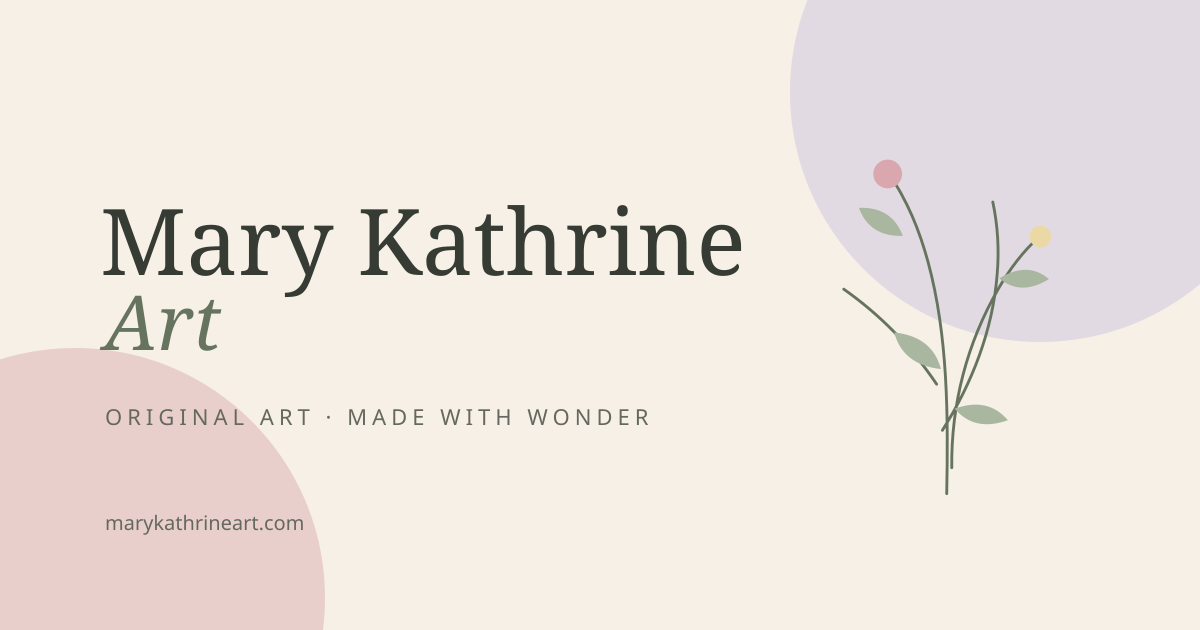
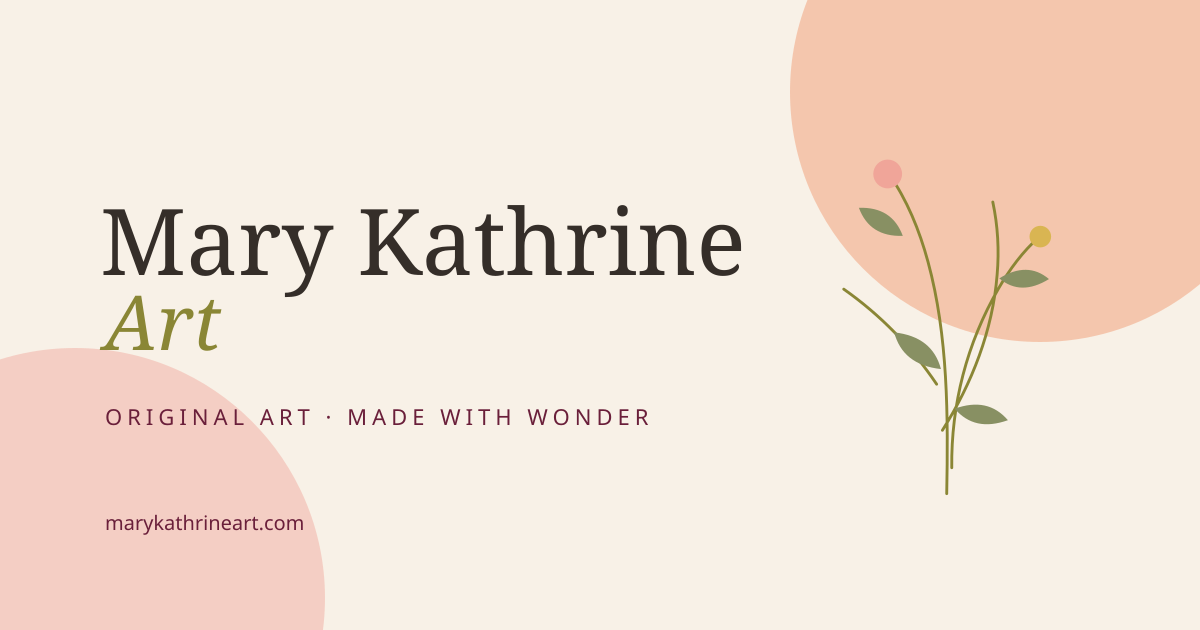
Update artwork and styles for a cohesive aesthetic
- Modified SVG files to enhance color schemes and visual elements across various artworks including 'gathered-light', 'lavender-path', 'meadow-song', 'poppy-studies', 'quiet-bloom', 'wild-at-heart', and 'wildflower-spray'.
- Updated favicon and social preview SVGs to reflect new color palette.
- Adjusted theme color in index.html to match the new design.
- Enhanced CSS variables for improved color management and consistency.
- Updated button styles and hover effects to align with the new color scheme.
- Added Instagram URL to site configuration in script.js.

diff --git a/styles.css b/styles.css
@@ -39,16 +39,24 @@
 }
 
 :root {
-  --ivory: #f6f0e6;
-  --paper: #fffaf2;
-  --sage: #a9b7a0;
-  --sage-dark: #5f6e58;
-  --rose: #d9a7ad;
-  --lavender: #c9bfdd;
-  --butter: #ead9a5;
-  --ink: #363b34;
-  --ink-soft: #65685f;
-  --line: rgba(54, 59, 52, 0.18);
+  --apricot: #f09367;
+  --blush: #f0a599;
+  --copper: #ce5a43;
+  --blood-orange: #ab482d;
+  --olive: #8a8635;
+  --moss: #889063;
+  --sunshine: #d9b552;
+  --burgundy: #6a1f3a;
+  --ivory: #f8f1e7;
+  --paper: #fff9ef;
+  --sage: var(--moss);
+  --sage-dark: var(--burgundy);
+  --rose: var(--blush);
+  --lavender: var(--apricot);
+  --butter: var(--sunshine);
+  --ink: #352e29;
+  --ink-soft: var(--burgundy);
+  --line: rgba(106, 31, 58, 0.2);
   --serif: "Cormorant Garamond", Georgia, serif;
   --sans: "Source Sans 3", "Helvetica Neue", Arial, sans-serif;
   --page-gutter: clamp(1.25rem, 4vw, 4.75rem);
@@ -115,8 +123,9 @@ button {
 }
 
 :focus-visible {
-  outline: 3px solid #78659a;
+  outline: 3px solid var(--paper);
   outline-offset: 4px;
+  box-shadow: 0 0 0 6px var(--burgundy);
 }
 
 .skip-link {
@@ -362,12 +371,12 @@ button {
 }
 
 .button--primary {
-  background: var(--ink);
+  background: var(--burgundy);
   color: var(--paper);
 }
 
 .button--primary:not([aria-disabled="true"]):hover {
-  background: var(--sage-dark);
+  background: var(--blood-orange);
   transform: translateY(-2px);
 }
 
@@ -567,7 +576,7 @@ button {
   overflow: hidden;
   padding-right: 0;
   padding-left: 0;
-  background: #e7e7dd;
+  background: var(--sunshine);
 }
 
 .gallery-section::after {
@@ -577,7 +586,7 @@ button {
   width: 26rem;
   height: 26rem;
   border-radius: 50%;
-  background: rgba(217, 167, 173, 0.26);
+  background: rgba(206, 90, 67, 0.3);
   content: "";
 }
 
@@ -790,7 +799,9 @@ button {
 .shop-callout {
   position: relative;
   overflow: hidden;
-  background: var(--rose);
+  padding-top: clamp(9rem, 14vw, 13rem);
+  padding-bottom: clamp(7rem, 11vw, 10rem);
+  background: var(--blush);
   isolation: isolate;
   text-align: center;
 }
@@ -808,7 +819,7 @@ button {
   left: -6rem;
   width: 24rem;
   height: 24rem;
-  background: rgba(255, 250, 242, 0.25);
+  background: rgba(240, 147, 103, 0.38);
 }
 
 .shop-callout::after {
@@ -816,7 +827,7 @@ button {
   bottom: -13rem;
   width: 30rem;
   height: 30rem;
-  background: rgba(201, 191, 221, 0.48);
+  background: rgba(217, 181, 82, 0.42);
 }
 
 .shop-callout__inner {
@@ -825,7 +836,7 @@ button {
 }
 
 .shop-callout .eyebrow {
-  color: #47463f;
+  color: var(--burgundy);
 }
 
 .shop-callout h2 {
@@ -835,7 +846,7 @@ button {
 .shop-callout__inner > p:not(.eyebrow, .link-status) {
   max-width: 34rem;
   margin: 1.8rem auto 0;
-  color: #47463f;
+  color: var(--burgundy);
   font-size: 1.08rem;
 }
 
@@ -844,7 +855,7 @@ button {
 }
 
 .button--dark {
-  background: var(--ink);
+  background: var(--burgundy);
   color: var(--paper);
 }
 
@@ -853,12 +864,12 @@ button {
 }
 
 .text-link--dark {
-  color: var(--ink);
+  color: var(--burgundy);
 }
 
 .link-status {
   margin: 1.3rem 0 0;
-  color: #47463f;
+  color: var(--burgundy);
   font-size: 0.72rem;
   letter-spacing: 0.08em;
 }
@@ -878,7 +889,7 @@ button {
   align-items: center;
   gap: 2rem;
   padding: 3rem var(--page-gutter);
-  background: var(--ink);
+  background: var(--burgundy);
   color: var(--paper);
 }
 
@@ -1151,6 +1162,11 @@ button {
 
   .shop-callout h2 {
     font-size: clamp(4rem, 19vw, 5.5rem);
+  }
+
+  .shop-callout {
+    padding-top: 8rem;
+    padding-bottom: 6rem;
   }
 
   .shop-callout__actions {

diff --git a/index.html b/index.html
@@ -3,7 +3,7 @@
   <head>
     <meta charset="UTF-8">
     <meta name="viewport" content="width=device-width, initial-scale=1">
-    <meta name="theme-color" content="#f6f0e6">
+    <meta name="theme-color" content="#f8f1e7">
     <meta name="description" content="Mary Kathrine Art — original artwork inspired by wild places, soft light, and the beauty found in everyday moments.">
 
     <title>Mary Kathrine Art — Original Art &amp; Wildflower-Inspired Work</title>

diff --git a/script.js b/script.js
@@ -4,7 +4,7 @@
  */
 const siteConfig = Object.freeze({
   etsyUrl: "",
-  instagramUrl: "",
+  instagramUrl: "https://www.instagram.com/marykathrineart",
 });
 
 /*
